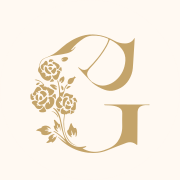
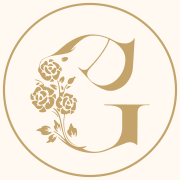
add Get a Quote button to product popups
Also finalizes the header logo: reverted the SVG to a clean
transparent ring+monogram mark (embedded wordmark text was
illegible at header size) and render "Glacial Desserts" as real
HTML text below it instead, for crisp readable type at any size.
Favicon/icon assets regenerated to match.

diff --git a/app/components/Header.tsx b/app/components/Header.tsx
@@ -18,15 +18,22 @@ export default function Header() {
   return (
     <header className="fixed top-0 z-20 w-full border-b border-white/10 bg-espresso/30 backdrop-blur-md">
       <div className="mx-auto flex max-w-6xl items-center justify-between px-6 py-5 sm:px-16">
-        <a href="/#home" aria-label="Glacial Desserts home" className="shrink-0">
+        <a
+          href="/#home"
+          aria-label="Glacial Desserts home"
+          className="flex shrink-0 flex-col items-center gap-1.5"
+        >
           <Image
             src="/logo.svg"
             alt="Glacial Desserts"
-            width={64}
-            height={64}
+            width={160}
+            height={160}
             priority
-            className="h-14 w-14 sm:h-16 sm:w-16"
+            className="h-16 w-16 sm:h-20 sm:w-20"
           />
+          <span className="font-serif text-[11px] font-medium uppercase tracking-[0.2em] text-gold sm:text-xs">
+            Glacial Desserts
+          </span>
         </a>
 
         <nav className="hidden md:block">

diff --git a/app/catalog/CatalogList.tsx b/app/catalog/CatalogList.tsx
@@ -372,9 +372,12 @@ function ProductModal({
 
           <AllergenSection product={product} />
 
-          <p className="mt-5 font-sans text-xs text-charcoal-400">
-            For full ingredient details, please speak to a member of staff.
-          </p>
+          <a
+            href="/#contact"
+            className="mt-5 inline-flex items-center gap-2 rounded-full bg-gold px-6 py-2.5 font-sans text-xs font-medium uppercase tracking-[0.15em] text-espresso shadow-lg shadow-black/25 transition-colors duration-300 hover:bg-gold-600"
+          >
+            Get a Quote
+          </a>
         </div>
       </motion.div>
     </motion.div>
